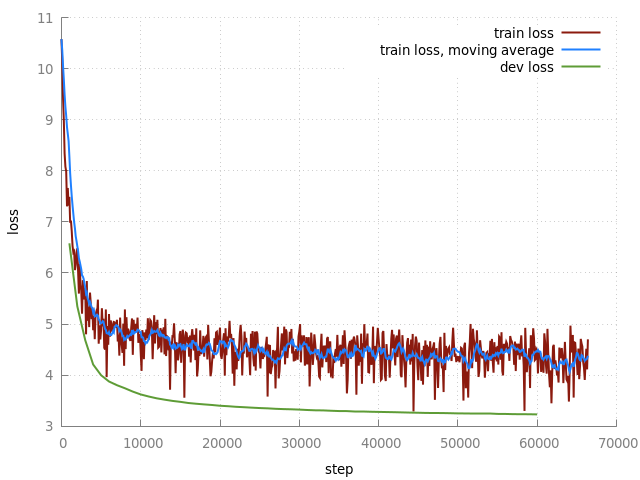
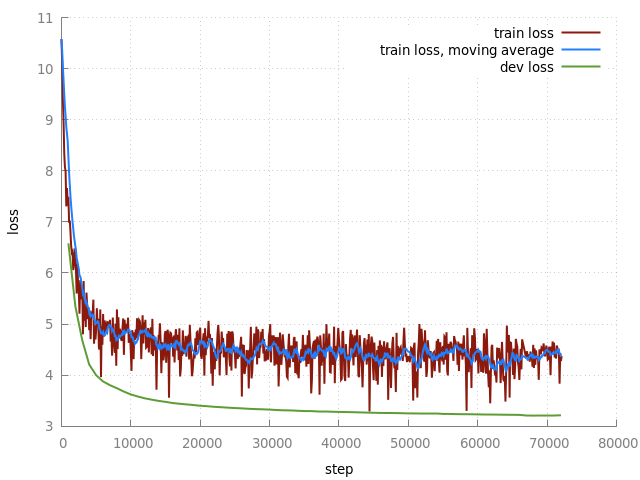
Add missing loss entries from GCP

diff --git a/train-wiki-hn/README.md b/train-wiki-hn/README.md
@@ -1,6 +1,6 @@
 # Transfer Learning
 
-We take the model trained on wikipedia data and continue training on HN data.
+We take the model trained on Wikipedia data and continue training on HN data.
 
 ## Steps
 
